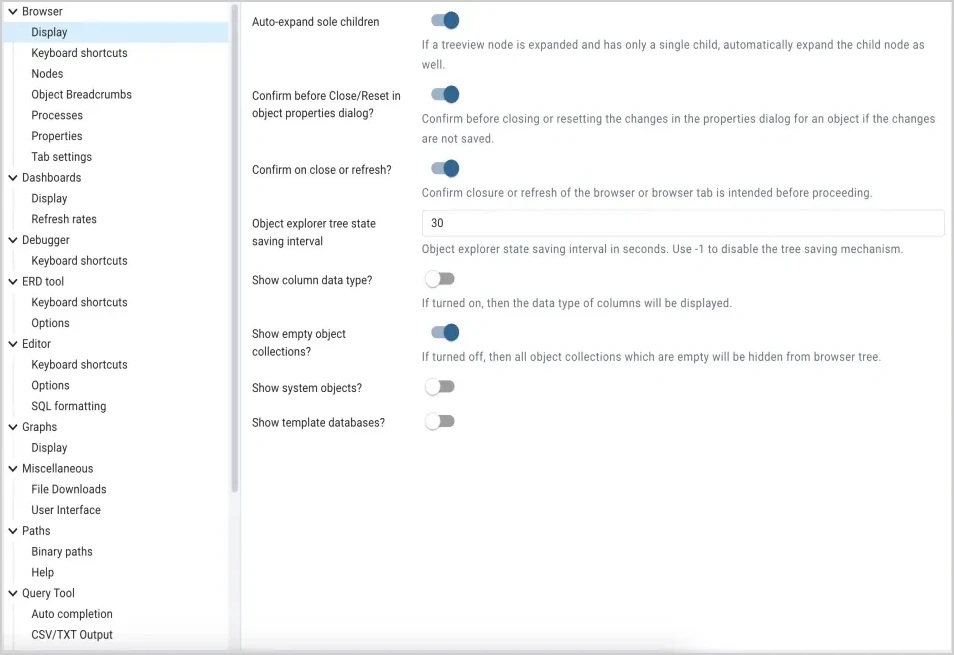
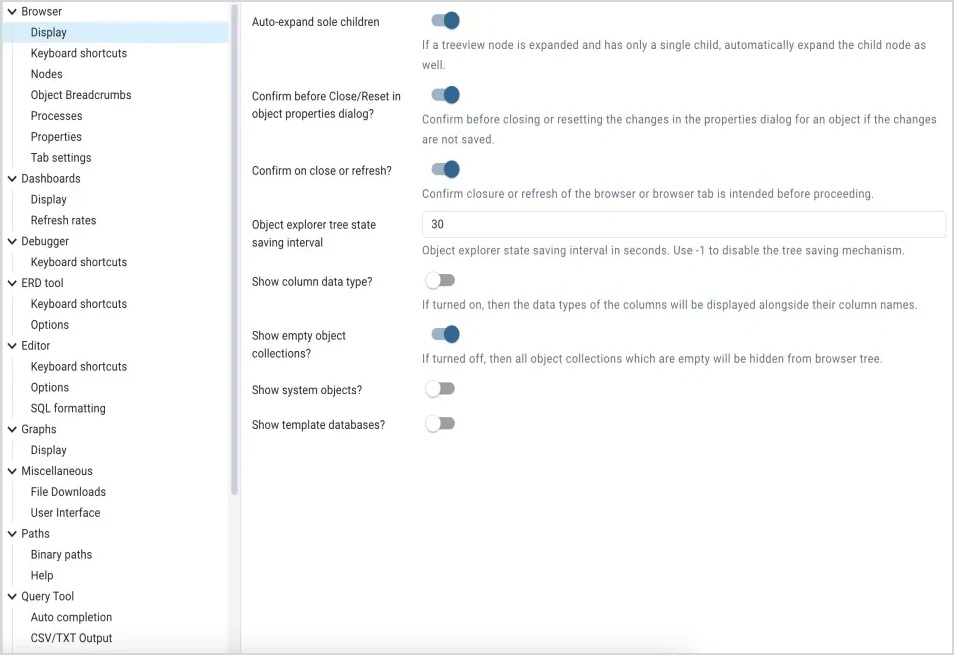
Fixed the review comments

diff --git a/web/pgadmin/static/js/tree/tree_nodes.ts b/web/pgadmin/static/js/tree/tree_nodes.ts
@@ -59,13 +59,8 @@ export class ManageTreeNodes {
 
   public addNode = (_parent: string, _path: string, _data: []) => new Promise((res) => {
     _data.type = _data.inode ? FileType.Directory : FileType.File;
-    _data._label = _data.label;
 
-    const nodeClass = pgAdmin.Browser.Nodes[_data._type];
-
-    if (nodeClass && typeof nodeClass.getNodeLabel === 'function') {
-      _data._label = nodeClass.getNodeLabel(_data);
-    }
+    _data._label = pgAdmin.Browser.Nodes[_data._type]?.getNodeLabel(_data);
 
     _data.label = _.escape(_data.label);
 

diff --git a/web/pgadmin/browser/server_groups/servers/databases/schemas/tables/columns/static/js/column.js b/web/pgadmin/browser/server_groups/servers/databases/schemas/tables/columns/static/js/column.js
@@ -45,7 +45,7 @@ define('pgadmin.node.column', [
       // Overriding getNodeLabel to add datatype besides column name
       getNodeLabel: function(data) {
         let show_column_datatype = usePreferences.getState().getPreferences('browser', 'show_column_datatype');
-        let label = data._label;
+        let label = data.label;
         if (show_column_datatype?.value && data.datatype && data.displaytypname) {
           label += ` ${data.displaytypname}`;
         }

diff --git a/web/pgadmin/browser/static/js/node.js b/web/pgadmin/browser/static/js/node.js
@@ -100,7 +100,7 @@ define('pgadmin.browser.node', [
       return d;
     },
     getNodeLabel: function(data) {
-      return data._label;
+      return data.label;
     },
     hasId: true,
     ///////

diff --git a/web/pgadmin/browser/register_browser_preferences.py b/web/pgadmin/browser/register_browser_preferences.py
@@ -38,7 +38,8 @@ def register_browser_preferences(self):
         gettext("Show column data type?"), 'boolean', False,
         category_label=PREF_LABEL_DISPLAY,
         help_str=gettext(
-            'If turned on, then the data type of columns will be displayed.'
+            'If turned on, then the data types of the columns '
+            'will be displayed alongside their column names.'
         )
     )
 

diff --git a/docs/en_US/preferences.rst b/docs/en_US/preferences.rst
@@ -60,7 +60,8 @@ Use the fields on the *Display* panel to specify general display preferences:
   all the shared servers from the object explorer. **Note:** This option is visible only when
   pgAdmin is running in server mode.
 
-* When the *Show column data type?* switch is turned on, then the data types of the columns will be displayed.
+* When the *Show column data type?* switch is turned on, then the data types 
+  of the columns will be displayed alongside their column names.
 
 * When the *Show empty object collections?* switch is turned off, then all object
   collections which are empty will be hidden from browser tree.
